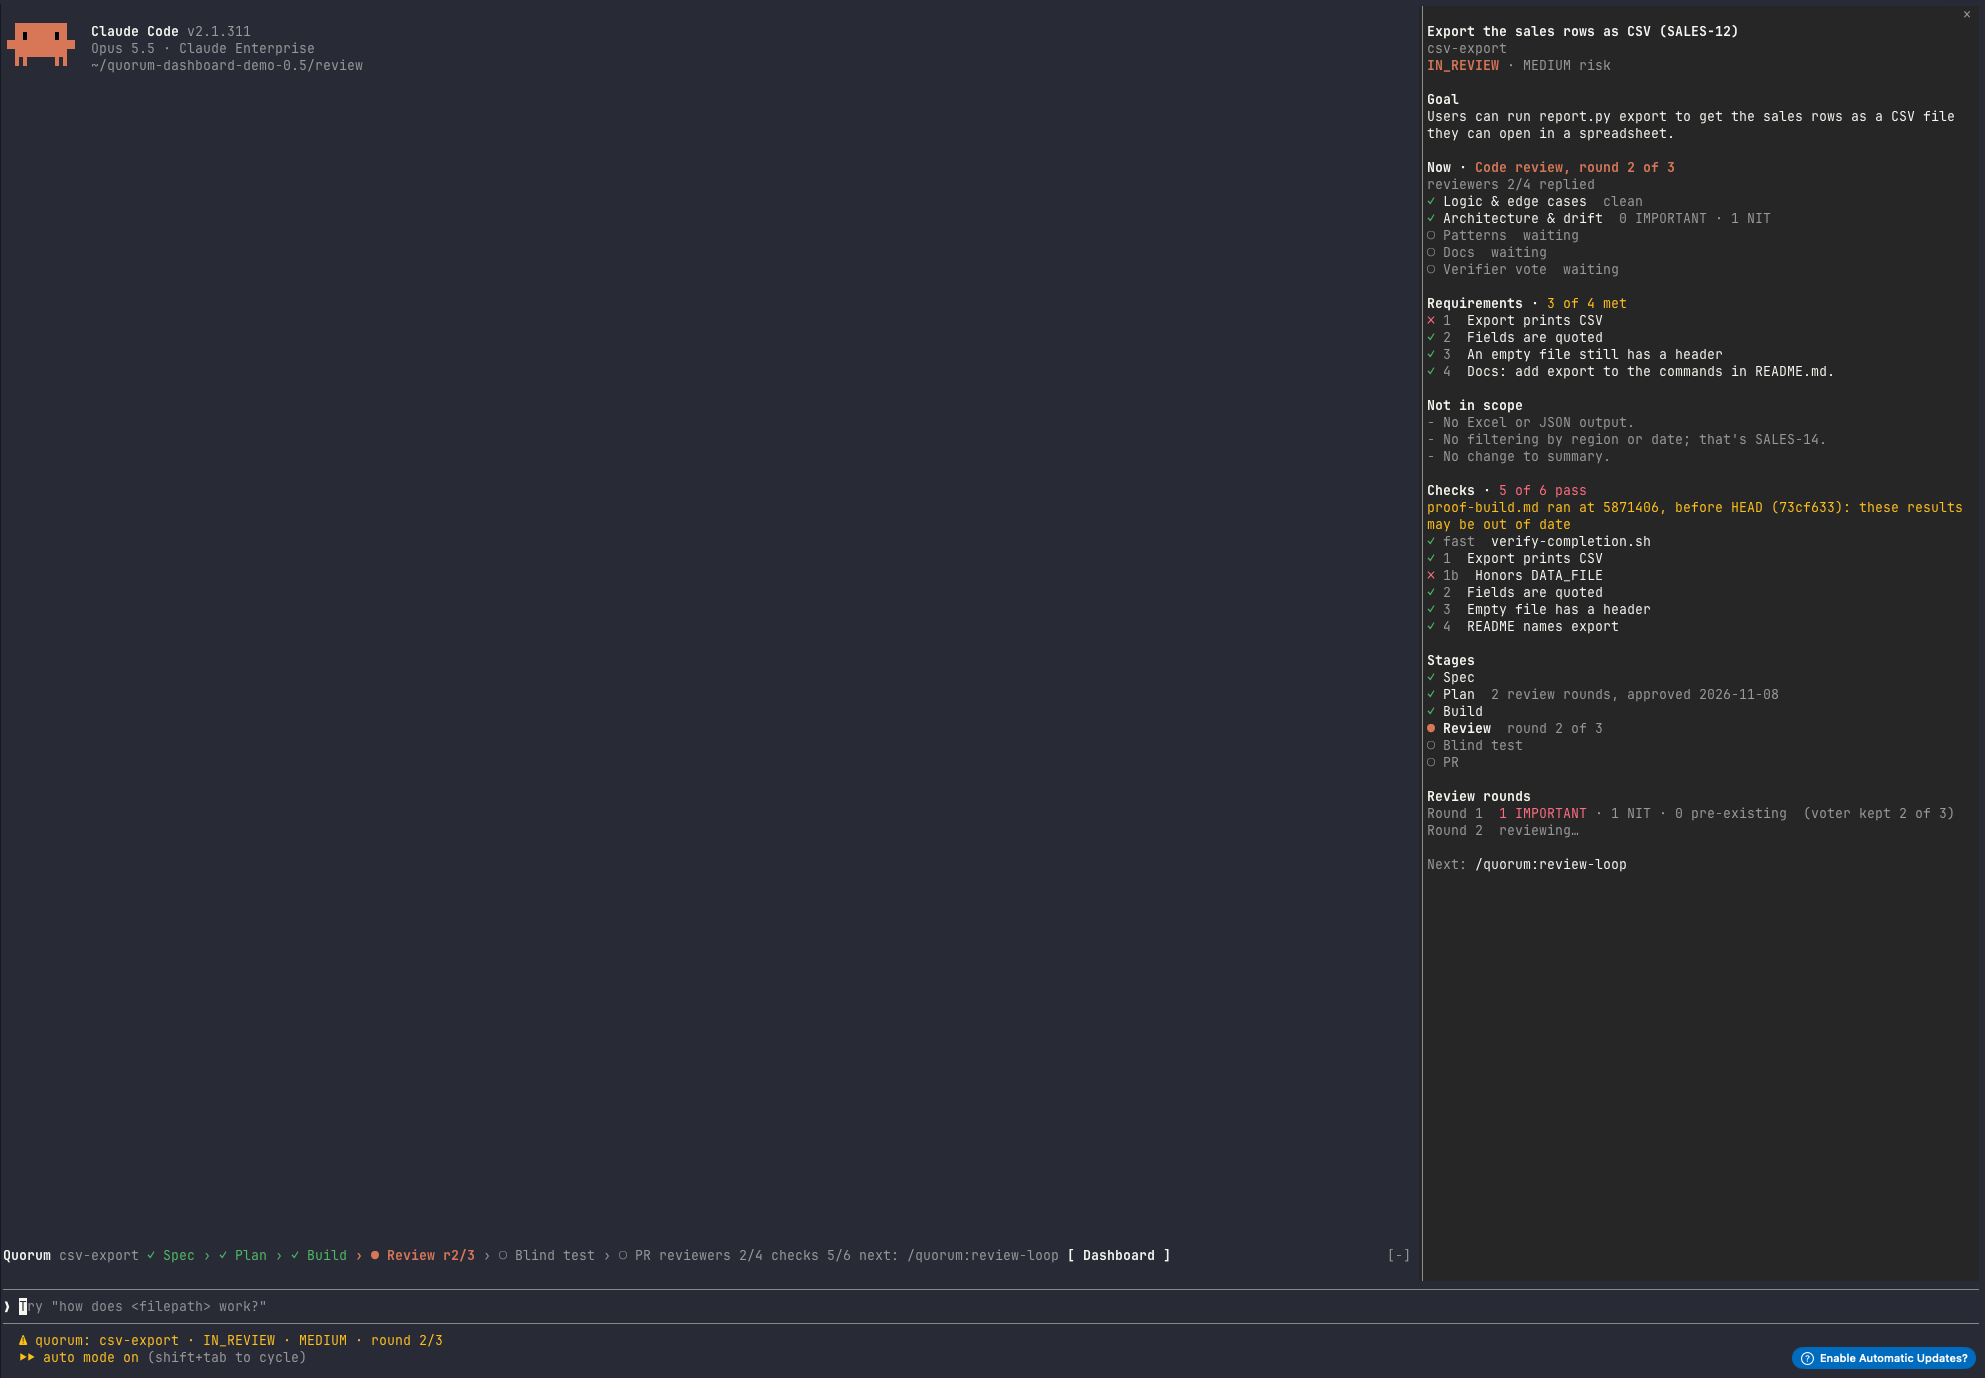
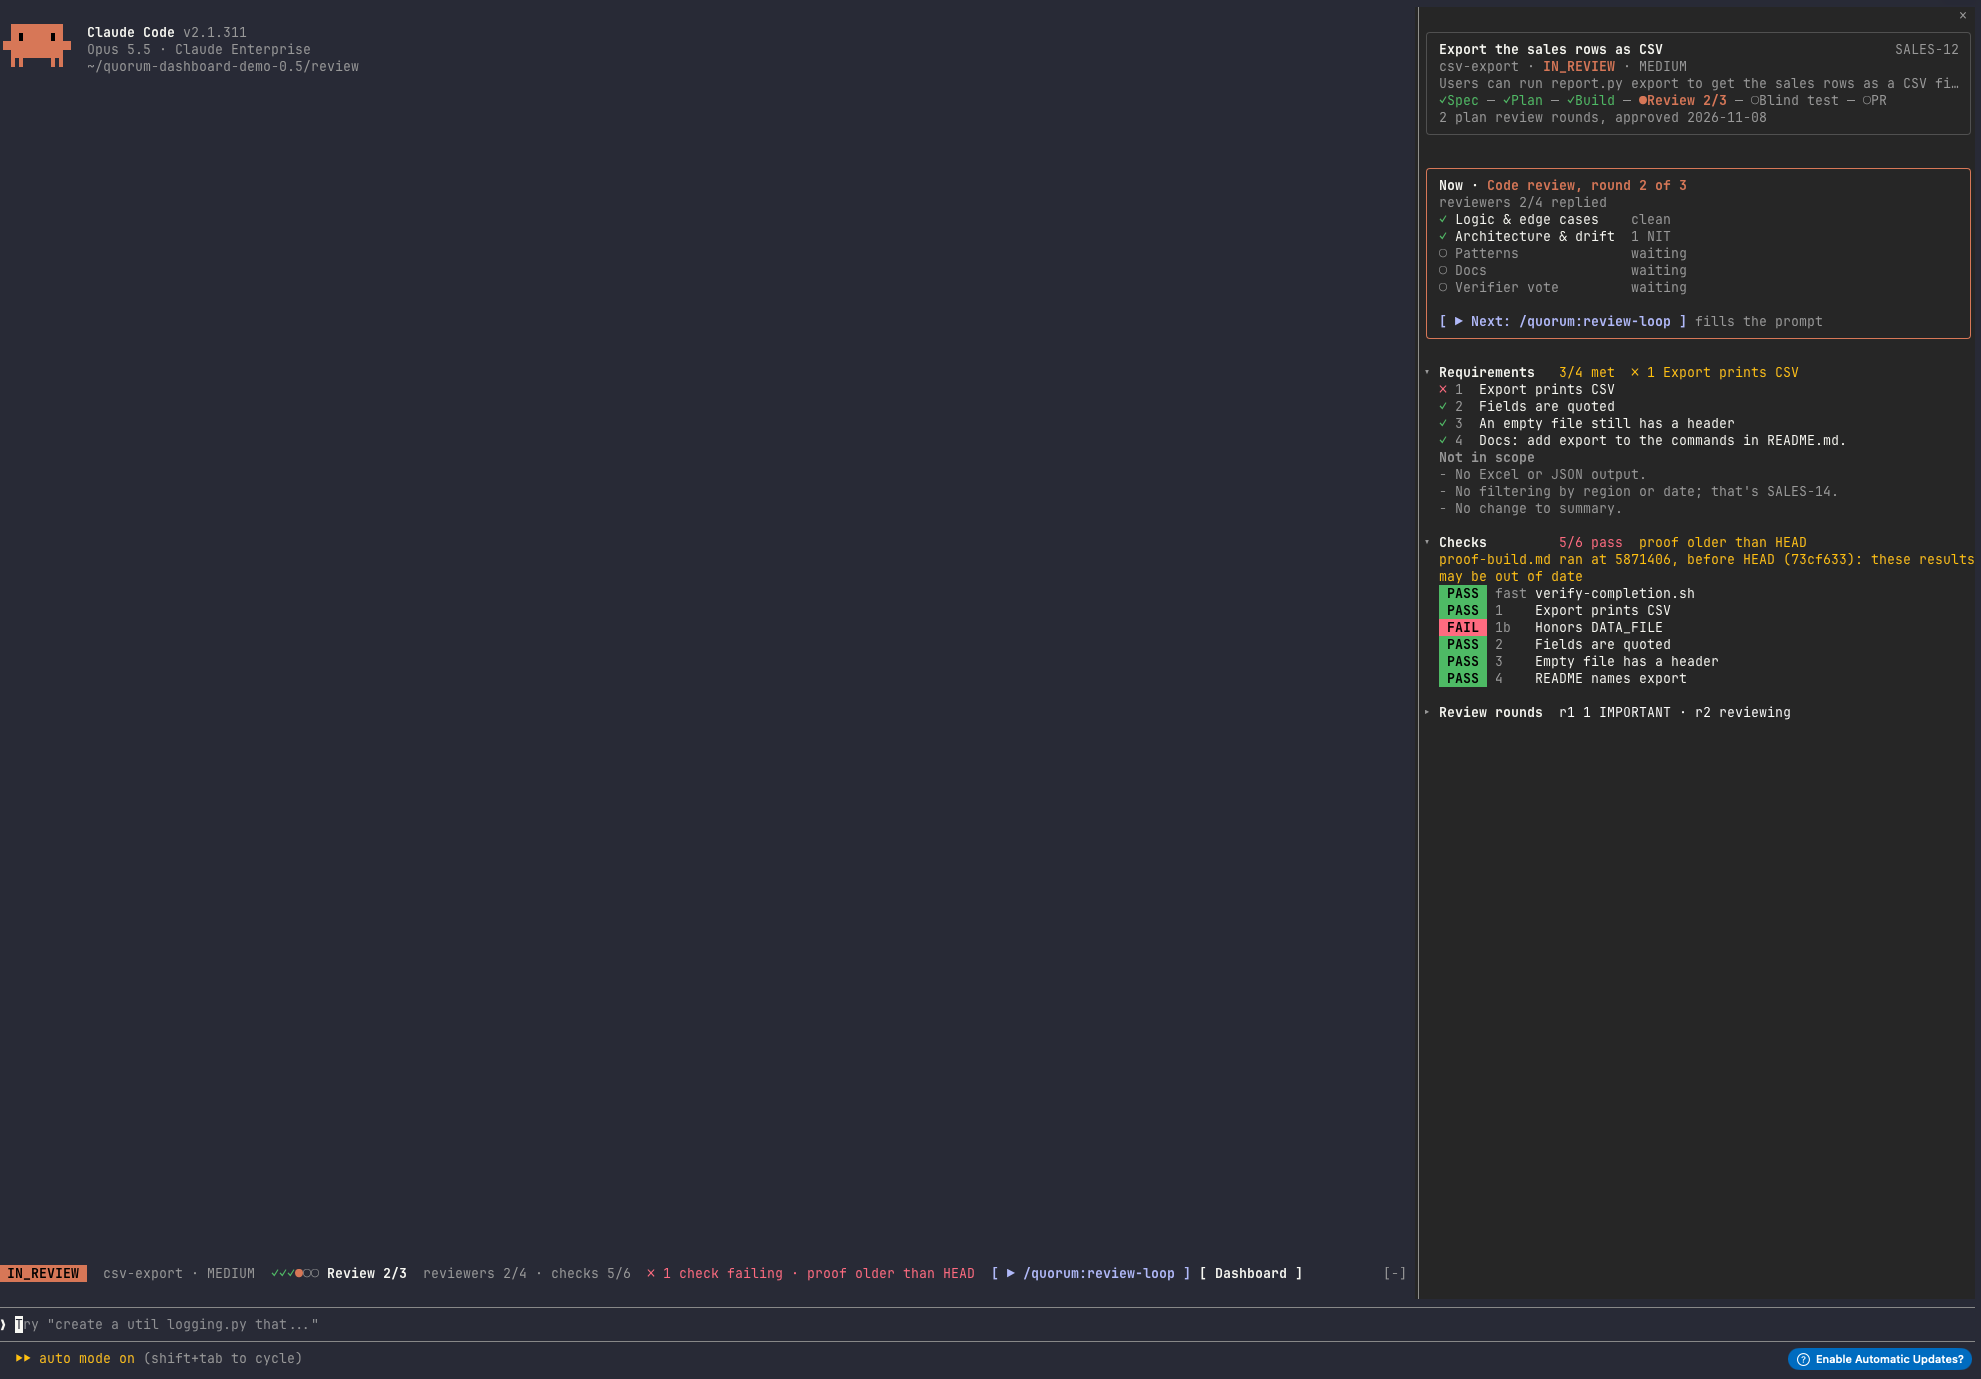
Link the PR by its number, and retake the review screenshot
'PR #42 open copy' read as the PR's state; the number is now the link and the
state follows it as a word. The review screenshot shows the redesigned pane and
band.

diff --git a/tests/dashboard/dashboard.test.tsx b/tests/dashboard/dashboard.test.tsx
@@ -669,8 +669,10 @@ test('a finished task shows its PR from GitHub, asking again only after the TTL 
   expect(calls.length).toBe(2)
   expect(seen.status).toEqual([undefined])
   pane = await $.ui.mount({ ...PANE, surface: 'terminal' })
-  expect(await pane.find({ type: 'Text', text: /^PR #33807 open$/ })).toBeDefined()
-  expect((await pane.find({ type: 'Link' }))?.props.href).toBe('https://github.com/o/r/pull/33807')
+  // The number is the link, and the state follows it as a word, so "open" can't be read as the link's label.
+  const link = await pane.find({ type: 'Link' })
+  expect(link?.props).toMatchObject({ href: 'https://github.com/o/r/pull/33807', label: 'PR #33807' })
+  expect(await pane.find({ type: 'Text', text: /^open$/ })).toBeDefined()
   expect(await pane.find({ type: 'Text', text: /^Get PR #33807 reviewed and merged$/ })).toBeDefined()
   await pane.press({ key: 'copy-pr' })
   expect(seen.copied).toEqual(['https://github.com/o/r/pull/33807'])
@@ -699,8 +701,9 @@ test('a PR recorded in state.md is asked about by its URL, and shown even withou
   await settle()
   expect(calls[0]).toEqual(['gh', 'pr', 'view', 'https://github.com/o/r/pull/42', '--json', 'number,state,isDraft,url'])
   const pane = await $.ui.mount({ ...PANE, surface: 'terminal' })
-  expect(await pane.find({ type: 'Text', text: /^PR #42$/ })).toBeDefined()
-  expect((await pane.find({ type: 'Link' }))?.props.href).toBe('https://github.com/o/r/pull/42')
+  // Without gh the state is unknown: the linked number stands alone.
+  expect((await pane.find({ type: 'Link' }))?.props).toMatchObject({ href: 'https://github.com/o/r/pull/42', label: 'PR #42' })
+  expect(await pane.find({ type: 'Text', text: /^open$/ })).toBeUndefined()
   expect(await pane.find({ type: 'Text', text: /^Get PR #42 reviewed and merged$/ })).toBeDefined()
   await pane.unmount()
 })

diff --git a/hooks/dashboard/register.tsx b/hooks/dashboard/register.tsx
@@ -251,6 +251,10 @@ function stageDetails(t: Snapshot, known: PullRequest | null): string {
   ].filter(Boolean).join(' · ')
 }
 
+// A known PR's state in a word or two, for after its linked number: '' when GitHub couldn't be asked.
+const prState = (p: PullRequest) =>
+  p.state === 'MERGED' ? 'merged' : p.state === 'CLOSED' ? 'closed without merging' : p.state === 'OPEN' ? (p.isDraft ? 'draft, open' : 'open') : ''
+
 const plural = (n: number, word: string) => `${n} ${word}${n === 1 ? '' : 's'}`
 
 function findingsText(f: Findings): string {
@@ -644,8 +648,9 @@ export const register: Register = (on, options) => {
           {stageDetails(t, known) ? <Text dimColor wrap="truncate-end">{stageDetails(t, known)}</Text> : null}
           {known && known.number > 0 && known.url ? (
             <Box flexDirection="row" gap={1}>
-              <Text color={known.state === 'MERGED' ? 'success' : known.state === 'CLOSED' ? 'error' : 'warning'}>{prDetail(known, t.prDrafted)}</Text>
-              <Link href={known.url} label="open" />
+              {/* The PR's number is the link; its state follows, as GitHub last reported it (none when unknown). */}
+              <Link href={known.url} label={`PR #${known.number}`} />
+              {prState(known) ? <Text color={known.state === 'MERGED' ? 'success' : known.state === 'CLOSED' ? 'error' : 'warning'}>{prState(known)}</Text> : null}
               {copy('copy-pr', known.url)}
             </Box>
           ) : null}

diff --git a/README.md b/README.md
@@ -207,7 +207,7 @@ task, so running it again on the same PR reuses its model choice. On a Quorum ta
 While a task is active, Quorum shows where it is without you asking:
 
 <p align="center">
-  <img src="assets/dashboard-review.png" alt="Claude Code with the Quorum dashboard docked on the right, for the task &quot;Export the sales rows as CSV&quot; at IN_REVIEW, MEDIUM risk. Now: code review round 2 of 3, 2 of 4 reviewers replied: Logic and edge cases clean, Architecture and drift 1 NIT, Patterns and Docs waiting, the verifier vote waiting. Requirements: 3 of 4 met, requirement 1 failing. Checks: 5 of 6 pass, with a warning that proof-build.md ran before HEAD so the results may be out of date; check 1b, honors DATA_FILE, failed. Stages: Spec, Plan, and Build done, Review in progress. Review rounds: round 1 kept 1 IMPORTANT and 1 NIT; round 2 reviewing. Above the prompt, the stage rail with reviewers 2/4, checks 5/6, the next command, and a Dashboard button; below it, the status line." width="880">
+  <img src="assets/dashboard-review.png" alt="Claude Code with the Quorum dashboard docked on the right, for the task &quot;Export the sales rows as CSV&quot;, ticket SALES-12. The task card: csv-export, IN_REVIEW, MEDIUM, the goal, the stepper with Spec, Plan, and Build ticked and Review at round 2 of 3, and the plan&#39;s 2 review rounds, approved 2026-11-08. The Now card, code review round 2 of 3: 2 of 4 reviewers replied, Logic and edge cases clean, Architecture and drift 1 NIT, Patterns, Docs, and the verifier vote waiting, and a Next button for /quorum:review-loop that fills the prompt. Below, folding sections: Requirements opened by itself, 3 of 4 met, requirement 1 failing, then what&#39;s out of scope; Checks opened by itself, 5 of 6 pass, a warning that the proof ran before HEAD, and a PASS or FAIL badge on each check, with 1b, honors DATA_FILE, failing; Review rounds folded to r1 1 IMPORTANT, r2 reviewing. Above the prompt, the band: an IN_REVIEW badge, csv-export, MEDIUM, a dot per stage, Review 2/3, reviewers 2/4, checks 5/6, 1 check failing and proof older than HEAD in red, the Next button, and Dashboard." width="880">
 </p>
 <p align="center">
   <img src="assets/dashboard-done.png" alt="The same task finished, at AWAITING-HUMAN. Now: waiting for you, PR #42 with its link. Requirements: 4 of 4 met. Checks: 6 of 6 pass in proof-final.md. Every stage done and the PR stage waiting. Review rounds: round 1 kept 1 IMPORTANT, round 2 0 IMPORTANT. Next: get PR #42 reviewed and merged. The stage rail shows every stage ticked and checks 6/6, and the status line names PR #42." width="880">
